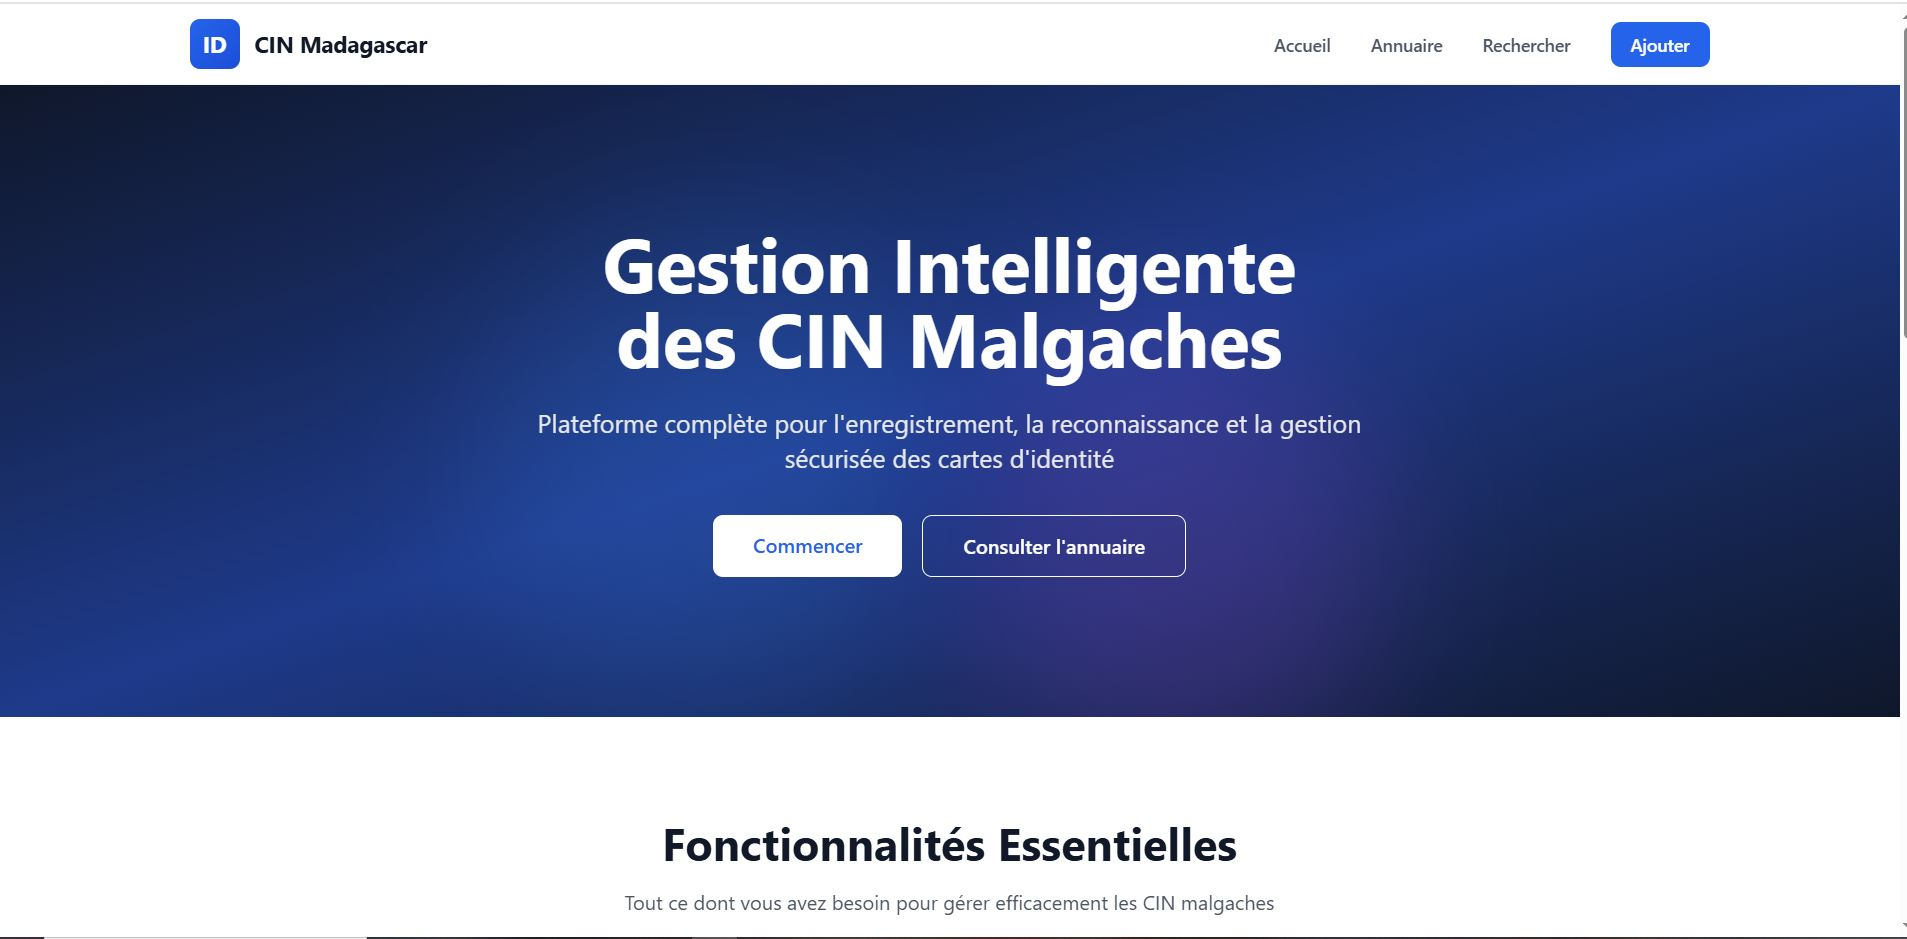
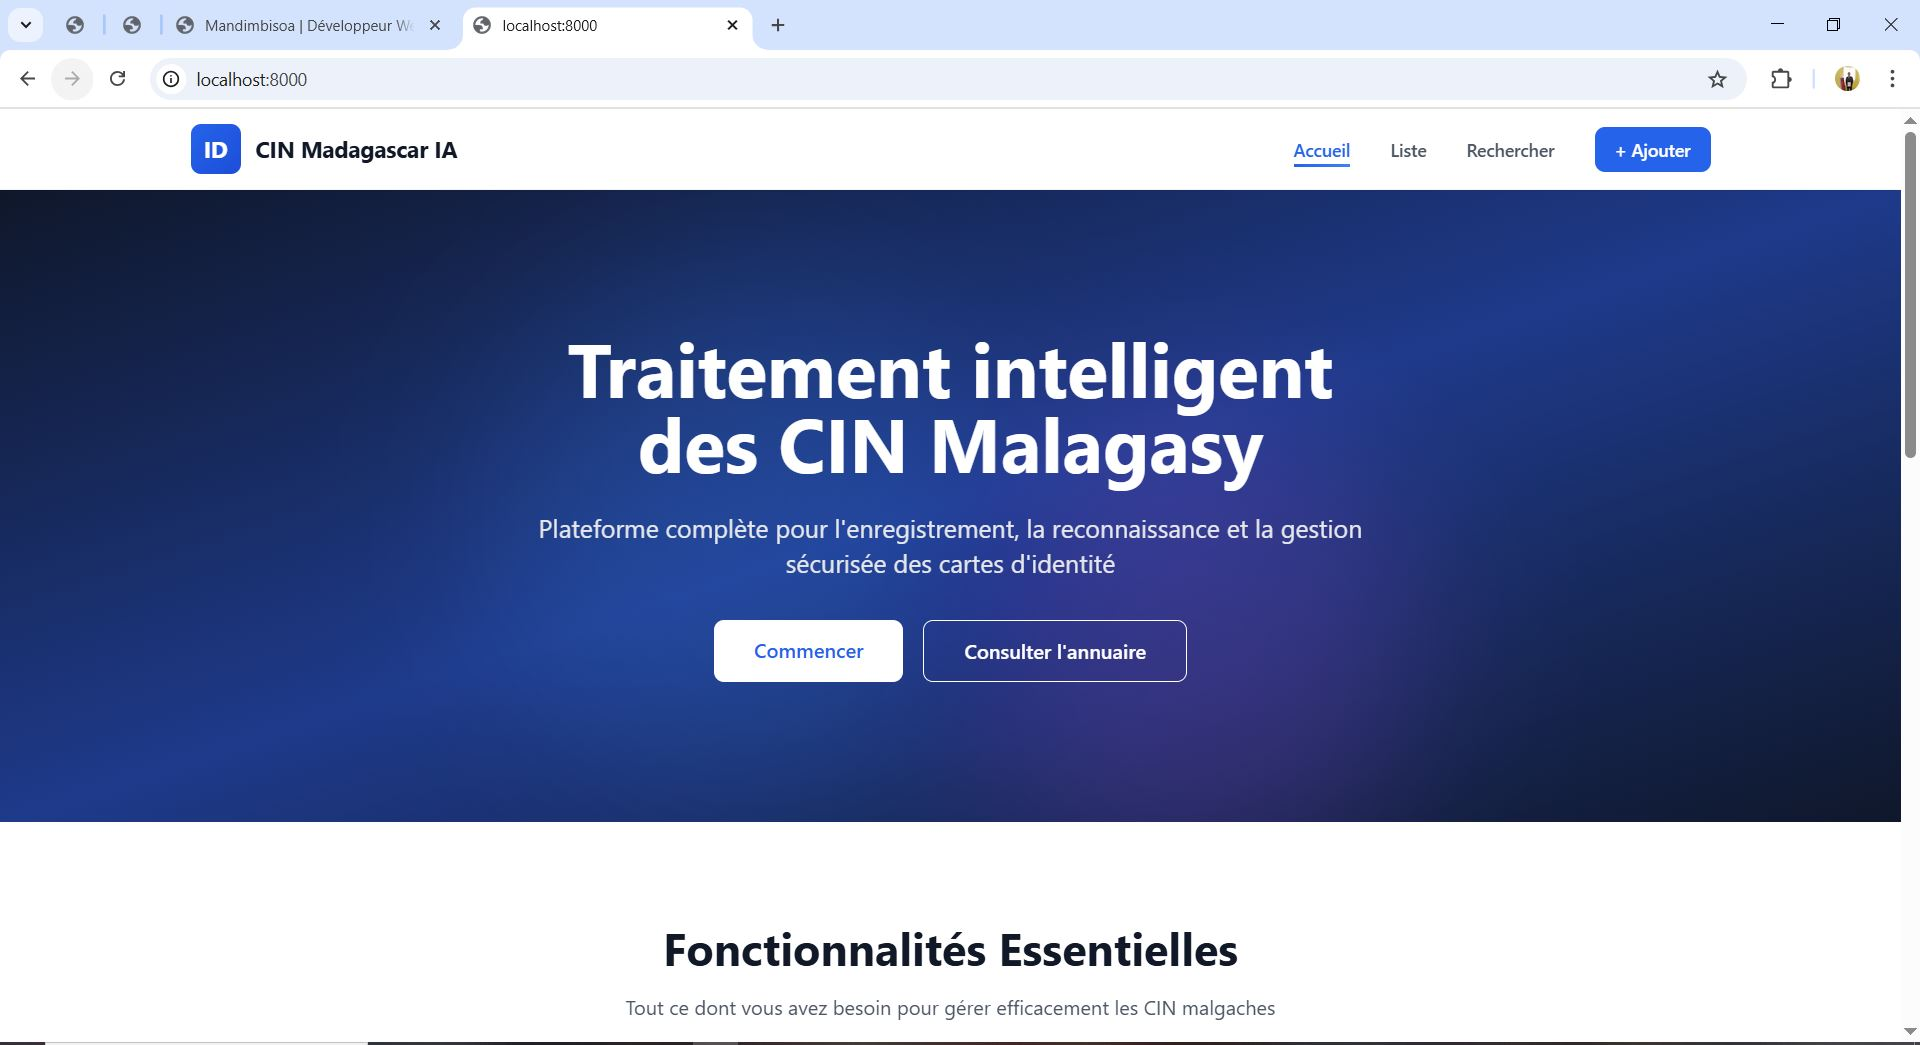
update tittle

diff --git a/index.html b/index.html
@@ -170,7 +170,7 @@
                 <div class="aura-glow"></div>
                 <div class="profile-image-container tilt-effect">
                   <img
-                    src="assets/images/profil.JPG"
+                    src="assets/images/profile.JPG"
                     alt="Mandimbisoa Randriamanantsoa"
                     class="profile-image"
                     loading="eager"
@@ -391,7 +391,7 @@
                       <i class="fas fa-brain" aria-hidden="true"></i>
                     </div>
                     <h4>Gemini Vision</h4>
-                    <p class="skill-badge" >Vision API</p>
+                    <p class="skill-badge">Vision API</p>
                   </div>
 
                   <div class="skill-card reveal-card delay-1">
@@ -407,7 +407,9 @@
                       <i class="fas fa-eye" aria-hidden="true"></i>
                     </div>
                     <h4>OpenCV</h4>
-                    <p class="skill-badge" data-lang="opencv">Computer Vision</p>
+                    <p class="skill-badge" data-lang="opencv">
+                      Computer Vision
+                    </p>
                   </div>
 
                   <div class="skill-card reveal-card delay-3">
@@ -415,7 +417,9 @@
                       <i class="fas fa-file-alt" aria-hidden="true"></i>
                     </div>
                     <h4>OCR</h4>
-                    <p class="skill-badge" data-lang="ocr">Reconnaissance de texte</p>
+                    <p class="skill-badge" data-lang="ocr">
+                      Reconnaissance de texte
+                    </p>
                   </div>
 
                   <div class="skill-card reveal-card delay-4">
@@ -423,7 +427,9 @@
                       <i class="fas fa-image" aria-hidden="true"></i>
                     </div>
                     <h4>Pillow</h4>
-                    <p class="skill-badge" data-lang="pillow">Image Processing</p>
+                    <p class="skill-badge" data-lang="pillow">
+                      Image Processing
+                    </p>
                   </div>
 
                   <div class="skill-card reveal-card delay-5">
@@ -431,7 +437,9 @@
                       <i class="fas fa-square-root-alt" aria-hidden="true"></i>
                     </div>
                     <h4>NumPy</h4>
-                    <p class="skill-badge" data-lang="numpy">Scientific Computing</p>
+                    <p class="skill-badge" data-lang="numpy">
+                      Scientific Computing
+                    </p>
                   </div>
                 </div>
               </div>
@@ -913,6 +921,7 @@
             </div>
 
             <!-- Carte 4 -->
+            <!-- Carte 4 -->
             <div class="project-card reveal-card delay-1" data-category="app">
               <div class="project-image">
                 <img
@@ -922,8 +931,10 @@
                 />
                 <div class="project-overlay">
                   <div class="project-info">
-                    <h3>Plateforme CIN IA</h3>
-                    <p>FastAPI • Gemini • InsightFace </p>
+                    <h3 data-lang="cin-project-title">
+                      Traitement Intelligent des CIN Malgaches
+                    </h3>
+                    <p>FastAPI • Gemini • InsightFace</p>
                     <div class="project-links">
                       <span class="overlay-badge">En développement</span>
                     </div>
@@ -931,9 +942,8 @@
                 </div>
               </div>
               <div class="project-details">
-                <h3>
-                  Plateforme de reconnaissance et gestion de CIN Malagasy avec
-                  IA
+                <h3 data-lang="cin-project-title">
+                  Traitement Intelligent des CIN Malgaches
                 </h3>
                 <p data-lang="project5-description">
                   Ce système permet l'enregistrement automatisé et la recherche

diff --git a/js/main.js b/js/main.js
@@ -1,7 +1,7 @@
 $(document).ready(function () {
   "use strict";
 
-  //Vérification de l'existence des éléments 
+  //Vérification de l'existence des éléments
   const $preloader = $(".preloader");
   const $particles = $("#particles-js");
   const $themeToggle = $(".theme-toggle");
@@ -134,6 +134,7 @@ $(document).ready(function () {
       "filter-web": "Web",
       "filter-app": "Applications",
       "filter-design": "Design",
+      "cin-project-title": "Traitement Intelligent des CIN Malgaches",
       "project1-description":
         "Ce système permet au médecin d'assurer un suivi médical complet des employés du Ministère (suivi des consultations, suivi cas médicaux, remplissage et impression directe d'une ordonnance, etc.)",
       "project3-description":
@@ -154,22 +155,22 @@ $(document).ready(function () {
       "contact-message-placeholder": "Votre message",
       "contact-submit-btn": "Envoyer",
       "footer-copyright": "Mandimbisoa RANDRIAMANANTSOA. Tous droits réservés.",
-      "ocr": "Reconnaissance de texte",
-      "face": "Reconnaissance faciale",
-      "opencv": "Vision par ordinateur",
-      "pillow": "Traitement d'image",
-      "numpy": "Calcul scientifique",
-      "postgresql": "Relationnelle",
-      "mysql": "Relationnelle",
+      ocr: "Reconnaissance de texte",
+      face: "Reconnaissance faciale",
+      opencv: "Vision par ordinateur",
+      pillow: "Traitement d'image",
+      numpy: "Calcul scientifique",
+      postgresql: "Relationnelle",
+      mysql: "Relationnelle",
     },
     en: {
-      "mysql": "Relational",
-      "postgresql": "Relational",
-      "numpy": "Scientific Computing",
-      "pillow": "Image Processing",
-      "opencv": "Computer Vision",
-      "face": "Face Recognition",
-      "ocr": "Text Recognition",
+      mysql: "Relational",
+      postgresql: "Relational",
+      numpy: "Scientific Computing",
+      pillow: "Image Processing",
+      opencv: "Computer Vision",
+      face: "Face Recognition",
+      ocr: "Text Recognition",
       "nav-home": "Home",
       "nav-about": "About",
       "nav-skills": "Skills",
@@ -215,6 +216,7 @@ $(document).ready(function () {
       "filter-web": "Web",
       "filter-app": "Applications",
       "filter-design": "Design",
+      "cin-project-title": "Intelligent Processing of Malagasy ID Cards",
       "project1-description":
         "This system allows doctors to ensure complete medical follow-up of Ministry employees (consultation tracking, medical case tracking, filling and direct printing of prescriptions, etc.)",
       "project3-description":
